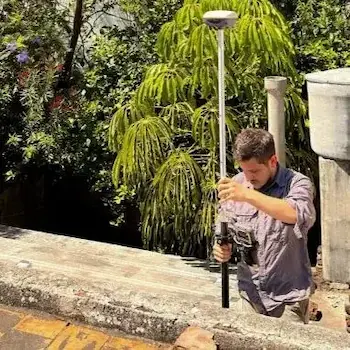
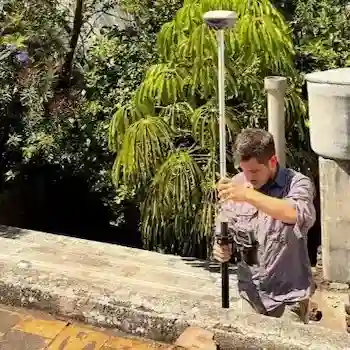
.

diff --git a/css/style.css b/css/style.css
@@ -140,7 +140,7 @@ body {
 /*******************************/
 /* 3. Ajustes del Carrusel Principal */
 #carousel {
-    background-image: url('../imagenes/carousel-1.jpg');
+    background-image: url('../imagenes/carousel-1.webp');
     background-size: cover;
     background-position: left center;
     background-repeat: no-repeat;
